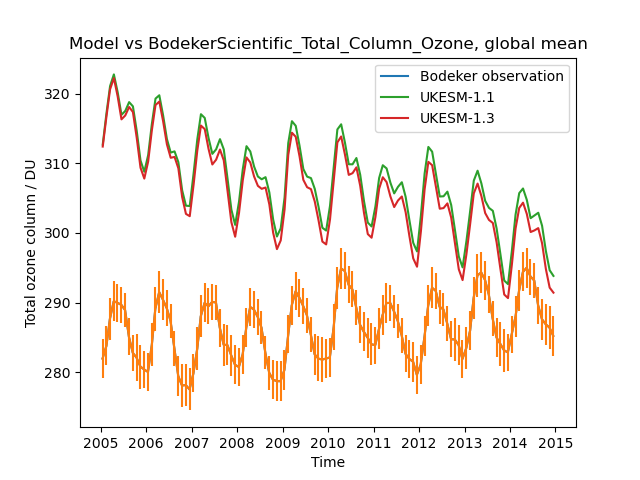
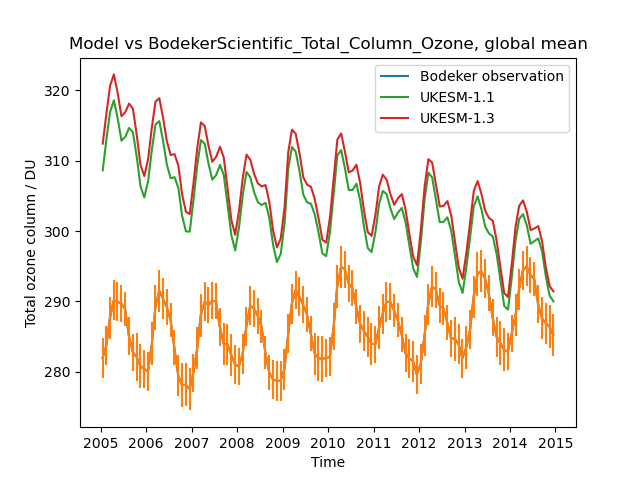
Now using 101.325 instead of 100 kPa as STP pressure

diff --git a/informal/cew12/ozone_to_dobson_units/ozone_to_dobson_units.py b/informal/cew12/ozone_to_dobson_units/ozone_to_dobson_units.py
@@ -52,14 +52,19 @@ def main(args):
     cell_areas_m2 = iris.analysis.cartography.area_weights(O3_mass_cube_kg_column)
     O3_mass_cube_kg_m2 = O3_mass_cube_kg_column / cell_areas_m2
 
-    # Convert from mass to a volume at standard temperature and pressure
+    # Convert from mass to a volume at standard temperature and pressure.
+    # Now on the one hand https://en.wikipedia.org/wiki/Dobson_unit links to:
     # https://en.wikipedia.org/wiki/Standard_temperature_and_pressure
     # "Since 1982, STP has been defined as a temperature of 273.15 K 
     #  (0 °C, 32 °F) and an absolute pressure of exactly 1 bar (100 kPa, 10^5 Pa)."
+    # However, further down the page, and in other places including this NERC
+    # definition, 1 atm == 101.325 kPa is used:
+    # https://vocab.nerc.ac.uk/collection/P07/current/CFSN0619/
+    # ""stp" means standard temperature (0 degC) and pressure (101325 Pa)"
     standard_T_K = 273.15
-    standard_p_Pa = 1e5
+    standard_p_Pa = 101325.0
     molar_gas_const_J_K_mol = 8.314
-    molar_mass_O3_g_mol = 3 * 16.0 # Approx from molecular formula
+    molar_mass_O3_g_mol = 47.997 # From https://en.wikipedia.org/wiki/Ozone
     molar_mass_O3_kg_mol = molar_mass_O3_g_mol * 1e-3
 
     # pV = nRT           where n = num mols
